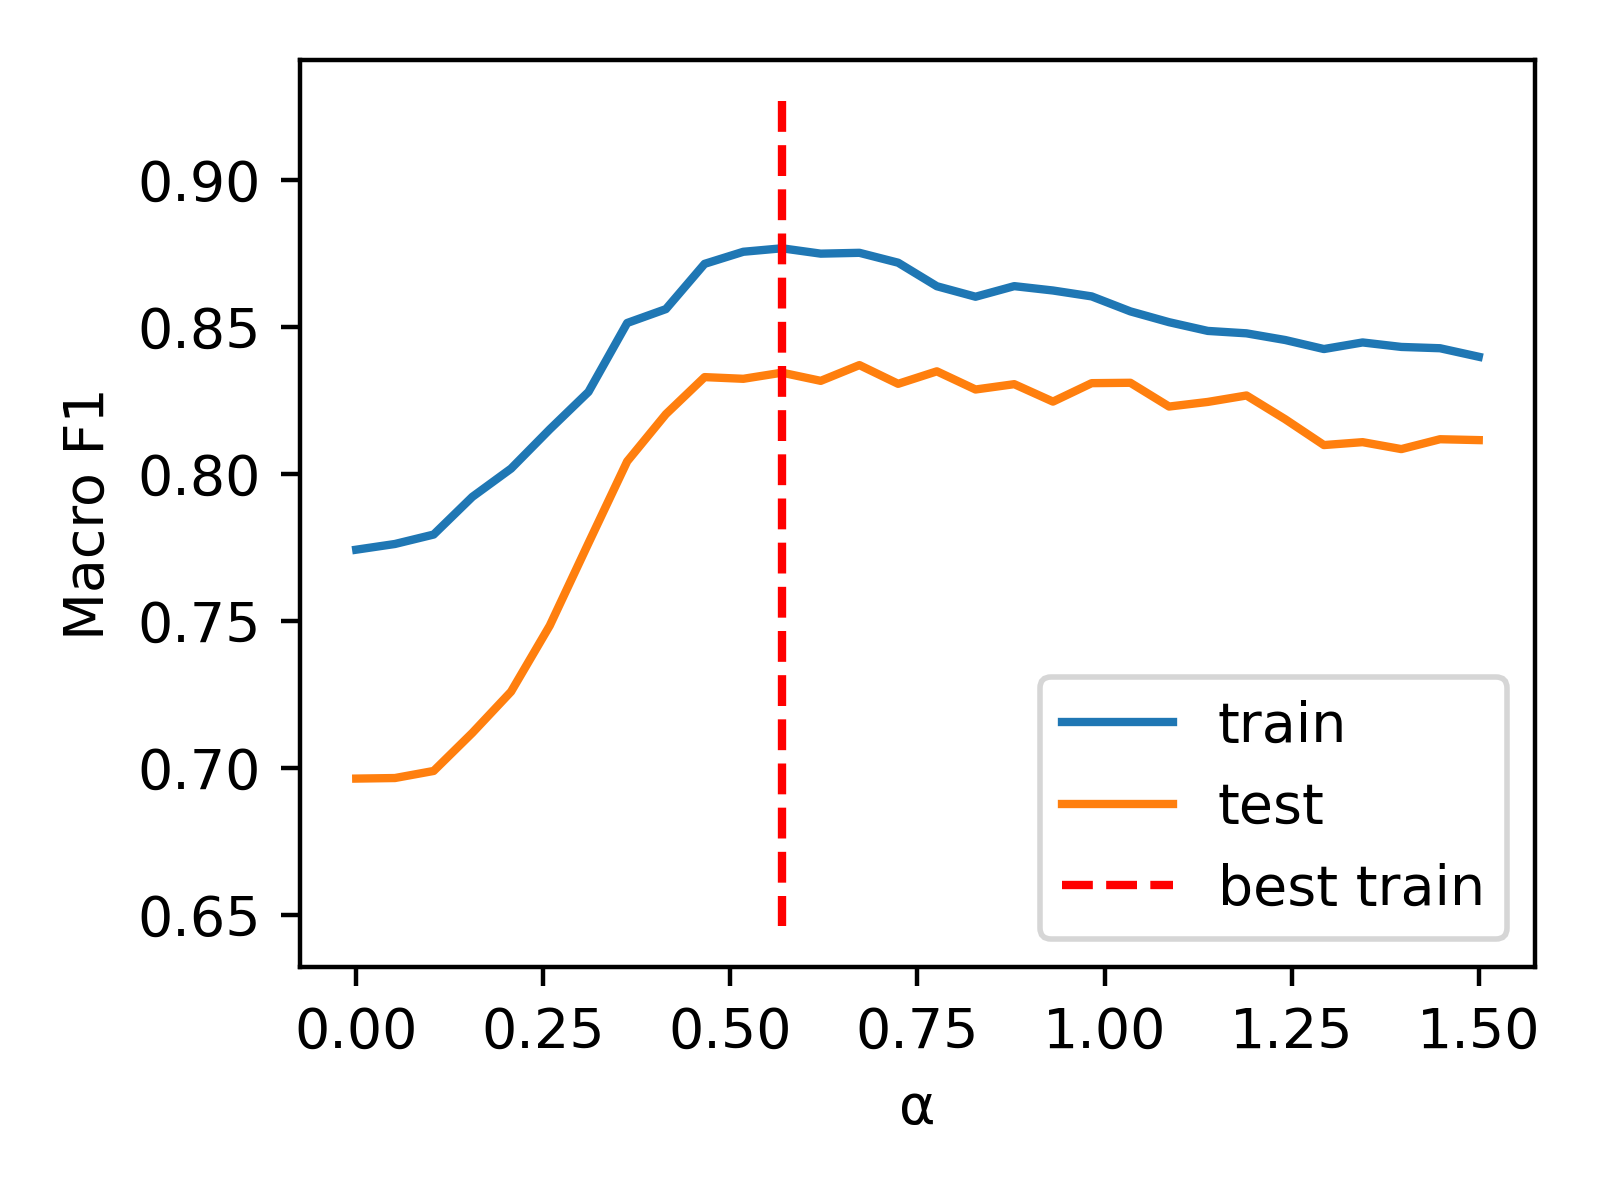
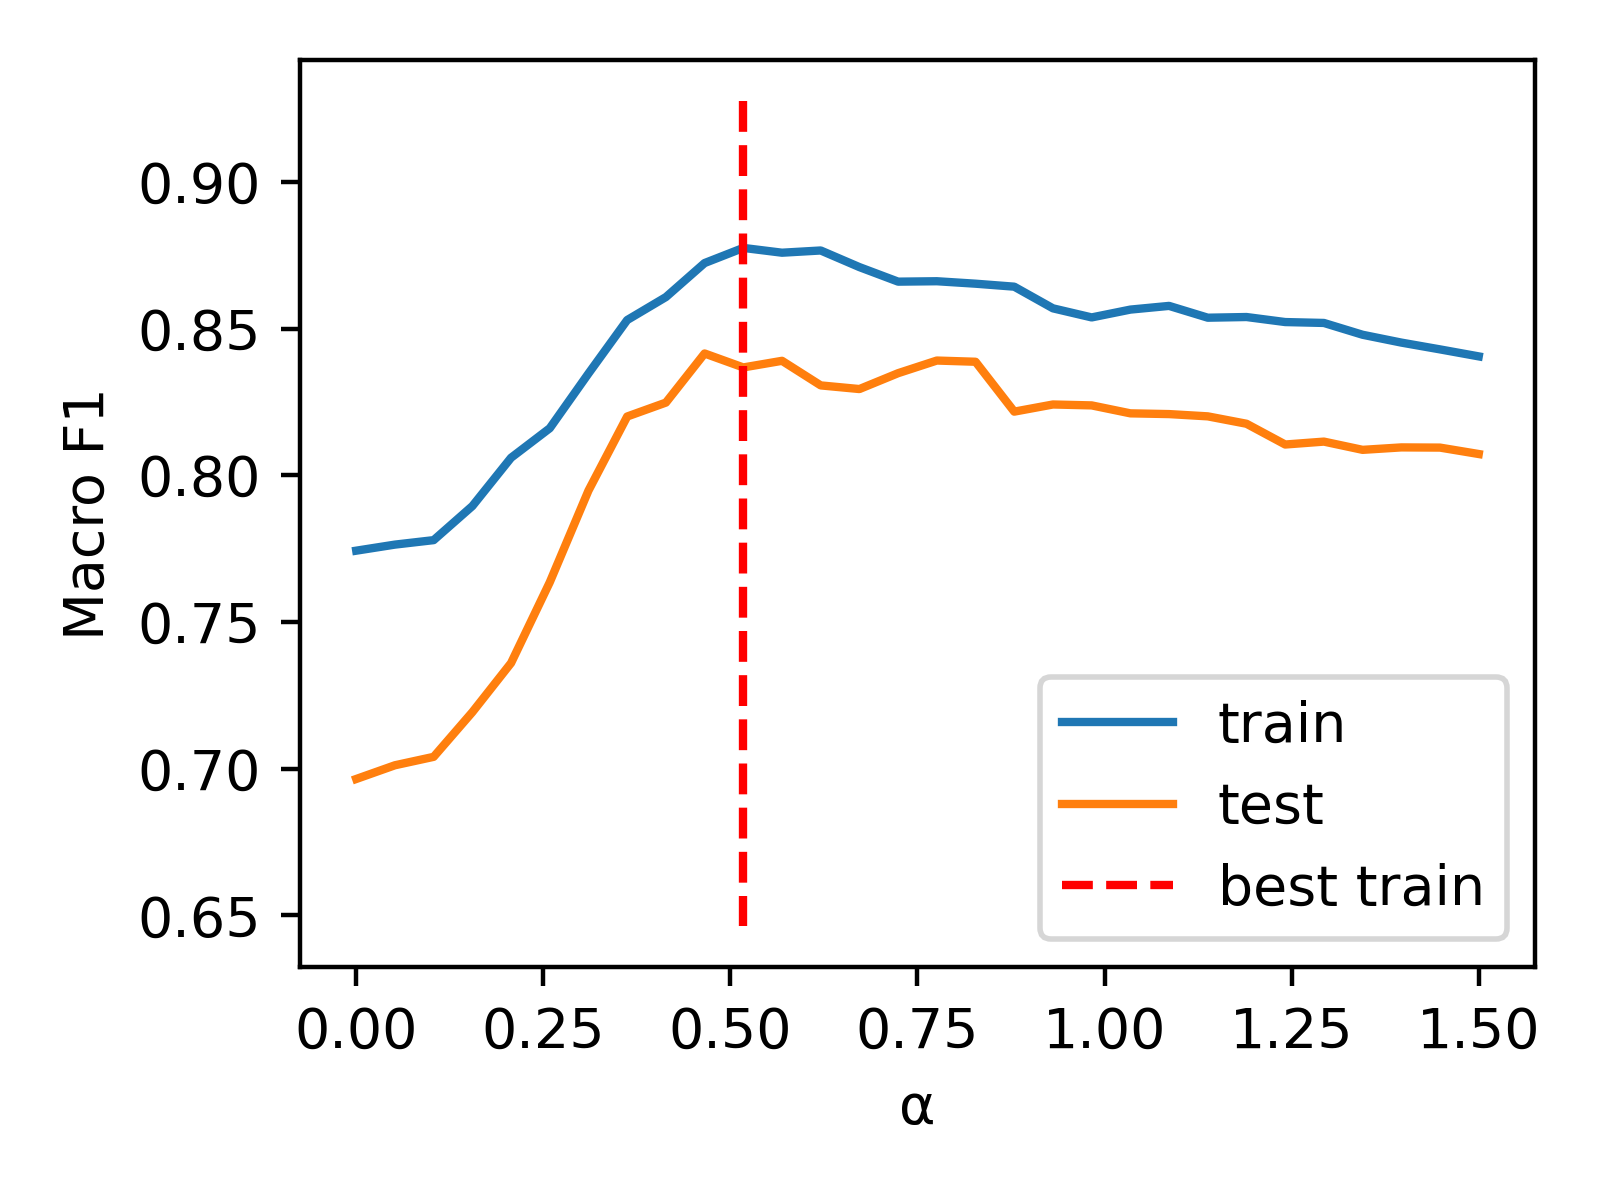
Add GraphSAGE intro

diff --git a/docs/use_cases/node2vec.md b/docs/use_cases/node2vec.md
@@ -111,7 +111,7 @@ evaluate(embeddings, ds.y)
 >>> F1 macro: 0.799
 ```
 
-This is better than the BoW representations! Let’s see if we can improve by combining the two embeddings.
+This is better than the BoW representations! Let’s see if we can improve by combining the two information sources, relations and textual features.
 
 ### Node2Vec + Text based embeddings
 
@@ -119,11 +119,11 @@ A straightforward method to combine embeddings from different sources is by conc
 
 ![L2 norm distribution of text based and Node2Vec embeddings](../assets/use_cases/node2vec/l2_norm.png)
 
-From the plot, it's clear that the scales of the embedding vector lengths differ. When we want to use them together, the one with the larger magnitude will overshadow the smaller one. To mitigate this, we'll equalize their lengths by dividing each one by its average length. However, this still not necessarily yields the best performance. To optimally combine the two embeddings, we'll introduce a weighting factor: `x = torch.cat((alpha * v_n2v, v_bow), dim=1)`. To determine the appropriate value for `alpha`, we'll employ a 1D grid search approach. The results of this approach are displayed in the subsequent graph.
+From the plot, it's clear that the scales of the embedding vector lengths differ. When we want to use them together, the one with the larger magnitude will overshadow the smaller one. To mitigate this, we'll equalize their lengths by dividing each one by its average length. However, this still not necessarily yields the best performance. To optimally combine the two embeddings, we'll introduce a weighting factor: `x = torch.cat((alpha * v_n2v, v_bow), dim=1)`. To determine the appropriate value for `alpha`, we'll employ a 1D grid search approach. The results are displayed in the subsequent graph.
 
 ![Grid search for alpha](../assets/use_cases/node2vec/grid_search_alpha.png)
 
-Now, we can evaluate the combined representation using the score of alpha that we've obtained (0.517).
+Now, we can evaluate the combined representation using the value of alpha that we've obtained (0.517).
 
 ```python
 v_n2v = normalize(n2v().detach().cpu())
@@ -141,21 +141,23 @@ Unlike BoW, which can be generated easily, Node2Vec features require retraining 
 
 For dynamic networks, where entities evolve or new ones emerge, inductive approaches like GraphSAGE come into play. GraphSAGE accommodates the dynamic nature of graphs, offering an inductive framework to generalize and embed unseen entities.
 
----
-
-[ SAGE DRAFT FROM HERE ]
 
 ## Learning node embeddings with GraphSAGE
 
-GraphSAGE, unlike transductive methods such as Node2Vec, creates node embeddings by incorporating features from neighboring nodes. This approach is beneficial as it enables the embedding of nodes that were not present during training.
+GraphSAGE is an inductive representation learning algorithm that leverages GNNs (Graph Neural Networks) to create node embeddings. Instead of learning static node embeddings, it learns an aggregation function on node features that outputs node representations. This also means that in this model combines node features with network structure, so we don't have to manually combine the two information sources later on.
 
-This inductive behaviour is achieved by using a particular type of Neural Network designed specifically for graph-structured data, known as Graph Neural Networks (GNN). The central concept behind GNN layers is to build the hidden representation by combining the node's features with the aggregated features of its neighboring nodes, as illustrated in the picture below.
+One GraphSAGE layer is defined as follows:
 
-[GNN image]
+$h_i^{(k)} = \sigma(W (h_i^{(k-1)} + \underset{j \in \mathcal{N}(i)}{\Sigma}h_j^{(k-1)}))$
 
-Here [https://distill.pub/2021/gnn-intro/](https://distill.pub/2021/gnn-intro/) you can learn more about GNNs.
+Here $\sigma$ is a nonlinear activation function, $W^{(k)}$ is a learnable parameter of layer $k$, and $\mathcal{N}(i)$ is the set of neighboring nodes of node $i$. As in traditional Neural Networks, we can stack multiple GNN layers. The resulting multi layer GNN will have wider receptive field, i.e. it will be able to consider information from bigger distances thanks to the recursive neighborhood aggregation.
 
-The model learns weights by minimizing the cross-entropy in the link prediction task, which involves predicting if an edge exists between two nodes in the graph. The link probability is modeled in a similar way to how Node2Vec models co-occurrence probability, with a slight difference: instead of learning static embeddings for each node, we use a GNN to construct the embeddings: $sigma(<GNN(x1), GNN(x2)>)$
+To learn the model parameters, the authors suggest two approaches:
+1. If we are dealing with a supervised setting, we can train the network similarly, how we train a conventional NN for the supervised task (for example using Cross Entropy for classification or Mean Squared Error for regression)
+2. If we only have access to the graph itself, we can approach model training as an unsupervised task, where the goal is to predict the presence of the edges in the graph based on the node embeddings. In this case the link probabilities are defined as $P(j \in \mathcal{N}(i)) \approx \sigma(h_i^Th_j)$. The loss function is the Negative Log Likelihood of the presence of the edge and $P(j \in \mathcal{N}(i))$.
+
+It is also possible to combine the two approaches by using a linear combination of the two loss functions.
+However, in this example we are going stick with the unsupervised approach.
 
 ### GraphSAGE embeddings
 
